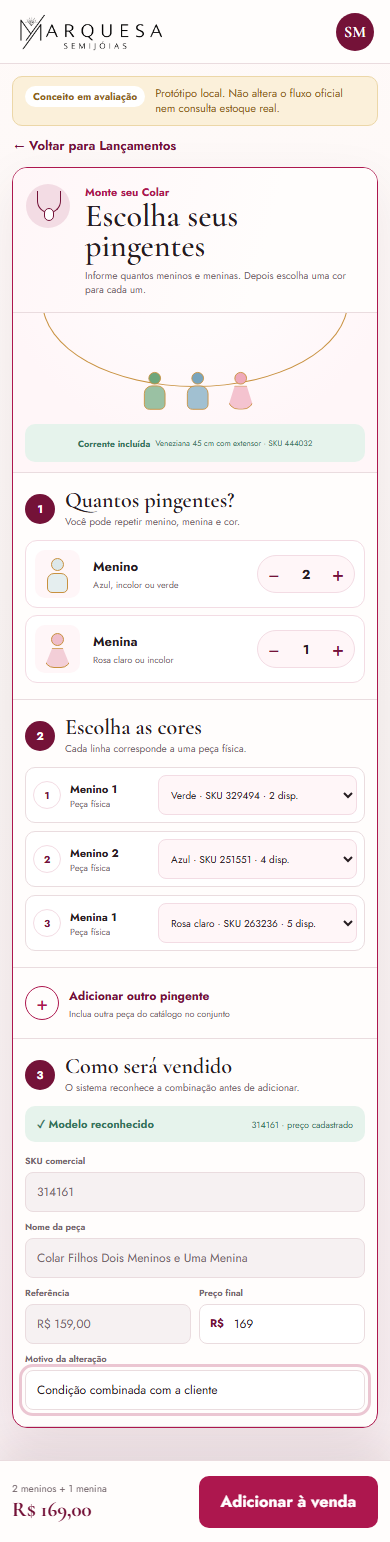
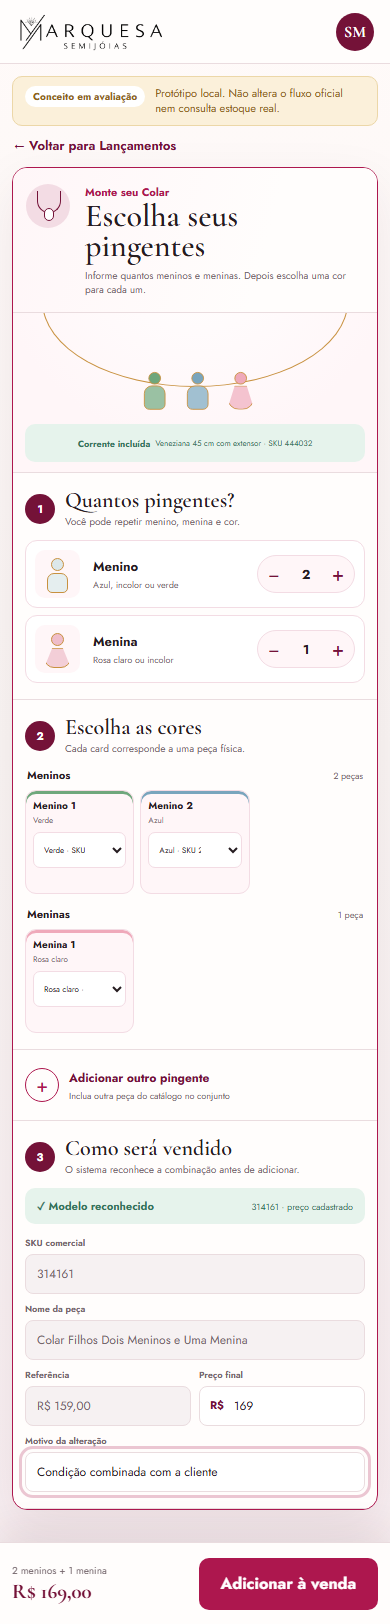
refactor(ux): compacta escolha de cores do colar

diff --git a/docs/ux/03-screens/vendas/concepts/monte-seu-colar-simples.css b/docs/ux/03-screens/vendas/concepts/monte-seu-colar-simples.css
@@ -121,13 +121,23 @@ main { width: min(1040px, calc(100% - 32px)); margin: 18px auto 32px; }
 .stepper button { width: 32px; height: 36px; padding: 0; border: 0; background: transparent; color: var(--wine); cursor: pointer; font-size: 20px; }
 .stepper output { text-align: center; font-size: 13px; font-weight: 700; }
 
-.color-list { display: grid; gap: 8px; }
-.color-row { display: grid; grid-template-columns: 34px minmax(95px, .7fr) minmax(140px, 1.3fr); align-items: center; gap: 9px; padding: 9px 10px; border: 1px solid var(--line); border-radius: 10px; background: white; }
-.color-row > span { display: grid; width: 28px; height: 28px; place-items: center; border: 1px solid var(--petal); border-radius: 50%; color: var(--wine); font-size: 10px; font-weight: 700; }
-.color-row label strong, .color-row label small { display: block; }
-.color-row label strong { font-size: 11px; }
-.color-row label small { color: var(--muted); font-size: 9px; }
-.color-row select { width: 100%; height: 40px; padding: 0 32px 0 11px; border: 1px solid var(--petal); border-radius: 8px; background: var(--blush); color: var(--ink); font-size: 11px; }
+.color-list { display: grid; gap: 14px; }
+.color-group-title { display: flex; align-items: baseline; justify-content: space-between; margin: 0 2px 7px; }
+.color-group-title strong { font-size: 11px; }
+.color-group-title span { color: var(--muted); font-size: 9px; }
+.color-card-grid { display: grid; grid-template-columns: repeat(3, minmax(0, 1fr)); gap: 8px; }
+.color-card { min-width: 0; min-height: 112px; padding: 9px; border: 1px solid var(--line); border-radius: 11px; background: white; }
+.color-card.is-selected { border-color: var(--petal); background: var(--blush); box-shadow: inset 0 3px var(--gem); }
+.color-card header { display: flex; min-width: 0; align-items: center; gap: 7px; margin-bottom: 8px; }
+.color-card header div { min-width: 0; }
+.color-card header strong, .color-card header small { display: block; overflow: hidden; text-overflow: ellipsis; white-space: nowrap; }
+.color-card header strong { font-size: 10px; }
+.color-card header small { margin-top: 1px; color: var(--muted); font-size: 8px; }
+.mini-child { position: relative; width: 27px; height: 31px; flex: 0 0 27px; }
+.mini-child::before { position: absolute; top: 1px; left: 9px; width: 8px; height: 8px; border: 1px solid var(--gold); border-radius: 50%; background: var(--gem); content: ""; }
+.mini-child::after { position: absolute; top: 12px; left: 5px; width: 16px; height: 16px; border: 1px solid var(--gold); border-radius: 6px 6px 4px 4px; background: color-mix(in srgb, var(--gem) 72%, white); content: ""; }
+.mini-child.girl::after { left: 3px; width: 20px; border-radius: 6px 6px 9px 9px; clip-path: polygon(29% 0, 71% 0, 100% 100%, 0 100%); }
+.color-card select { width: 100%; height: 38px; padding: 0 24px 0 8px; border: 1px solid var(--petal); border-radius: 7px; background: white; color: var(--ink); font-size: 9px; }
 
 .extra-section { padding: 14px 22px; border-bottom: 1px solid var(--line); }
 .extra-trigger { display: grid; grid-template-columns: 34px minmax(0, 1fr); width: 100%; align-items: center; gap: 0 10px; padding: 6px 0; border: 0; background: transparent; cursor: pointer; text-align: left; }
@@ -208,8 +218,12 @@ main { width: min(1040px, calc(100% - 32px)); margin: 18px auto 32px; }
   .section-copy h2 { font-size: 22px; }
   .quantity-grid { grid-template-columns: 1fr; gap: 7px; }
   .quantity-choice { min-height: 68px; padding: 8px 9px; }
-  .color-row { grid-template-columns: 31px 82px minmax(0, 1fr); gap: 6px; padding: 7px; }
-  .color-row select { padding-inline: 8px 24px; font-size: 10px; }
+  .color-list { gap: 12px; }
+  .color-card-grid { gap: 6px; }
+  .color-card { min-height: 104px; padding: 7px; }
+  .color-card header { display: block; margin-bottom: 6px; }
+  .mini-child { display: none; }
+  .color-card select { height: 36px; padding-left: 6px; font-size: 8px; }
   .extra-section { padding: 12px; }
   .extra-fields { grid-template-columns: 1fr; }
   .commercial-fields { grid-template-columns: 1fr 1fr; gap: 8px; }

diff --git a/docs/ux/03-screens/vendas/concepts/monte-seu-colar-simples.js b/docs/ux/03-screens/vendas/concepts/monte-seu-colar-simples.js
@@ -74,16 +74,19 @@ function syncArray(type) {
 }
 
 function renderColorRows() {
-  const rows = [];
+  const groups = [];
   ['boy', 'girl'].forEach((type) => {
     const title = type === 'boy' ? 'Menino' : 'Menina';
-    state[`${type}Colors`].forEach((value, index) => {
+    const plural = type === 'boy' ? 'Meninos' : 'Meninas';
+    const cards = state[`${type}Colors`].map((value, index) => {
+      const selected = colors[type].find((color) => color.sku === value);
       const options = colors[type].map((color) => `<option value="${color.sku}" ${color.sku === value ? 'selected' : ''}>${color.label} · SKU ${color.sku} · ${color.stock} disp.</option>`).join('');
-      rows.push(`<div class="color-row"><span>${rows.length + 1}</span><label><strong>${title} ${index + 1}</strong><small>Peça física</small></label><select data-color-type="${type}" data-color-index="${index}" aria-label="Cor de ${title} ${index + 1}"><option value="">Escolha a cor</option>${options}</select></div>`);
+      return `<article class="color-card ${selected ? 'is-selected' : ''}" style="--gem:${selected?.gem || '#e7dadd'}"><header><i class="mini-child ${type === 'girl' ? 'girl' : ''}" aria-hidden="true"></i><div><strong>${title} ${index + 1}</strong><small>${selected?.label || 'Sem cor'}</small></div></header><select data-color-type="${type}" data-color-index="${index}" aria-label="Cor de ${title} ${index + 1}"><option value="">Escolha a cor</option>${options}</select></article>`;
     });
+    if (cards.length) groups.push(`<section class="color-group" data-color-group="${type}"><div class="color-group-title"><strong>${plural}</strong><span>${cards.length} ${cards.length === 1 ? 'peça' : 'peças'}</span></div><div class="color-card-grid">${cards.join('')}</div></section>`);
   });
-  colorList.innerHTML = rows.join('');
-  colorSection.hidden = rows.length === 0;
+  colorList.innerHTML = groups.join('');
+  colorSection.hidden = groups.length === 0;
 }
 
 function selectedComponents() {
@@ -236,6 +239,11 @@ colorList.addEventListener('change', (event) => {
   const select = event.target.closest('[data-color-type]');
   if (!select) return;
   state[`${select.dataset.colorType}Colors`][Number(select.dataset.colorIndex)] = select.value;
+  const selected = colors[select.dataset.colorType].find((item) => item.sku === select.value);
+  const card = select.closest('.color-card');
+  card.classList.toggle('is-selected', !!selected);
+  card.style.setProperty('--gem', selected?.gem || '#e7dadd');
+  card.querySelector('header small').textContent = selected?.label || 'Sem cor';
   renderPreview();
   updateFooter();
 });

diff --git a/docs/ux/03-screens/vendas/concepts/monte-seu-colar-simples.html b/docs/ux/03-screens/vendas/concepts/monte-seu-colar-simples.html
@@ -71,7 +71,7 @@
         <section class="color-section" data-color-section hidden aria-labelledby="color-title">
           <div class="section-copy">
             <span>2</span>
-            <div><h2 id="color-title">Escolha as cores</h2><p>Cada linha corresponde a uma peça física.</p></div>
+            <div><h2 id="color-title">Escolha as cores</h2><p>Cada card corresponde a uma peça física.</p></div>
           </div>
           <div class="color-list" data-color-list></div>
         </section>

diff --git a/docs/ux/03-screens/vendas/concepts/README.md b/docs/ux/03-screens/vendas/concepts/README.md
@@ -8,6 +8,7 @@ comportamento ativo em produção.
 
 - [Abrir o protótipo](monte-seu-colar-simples.html)
 - [Captura mobile](monte-seu-colar-simples-mobile.png)
+- [Captura das cores compactas](monte-seu-colar-cores-compactas.png)
 - [Captura de combinação nova](monte-seu-colar-nova-combinacao-mobile.png)
 - [Teste de navegador](verify-monte-seu-colar-simples.mjs)
 
